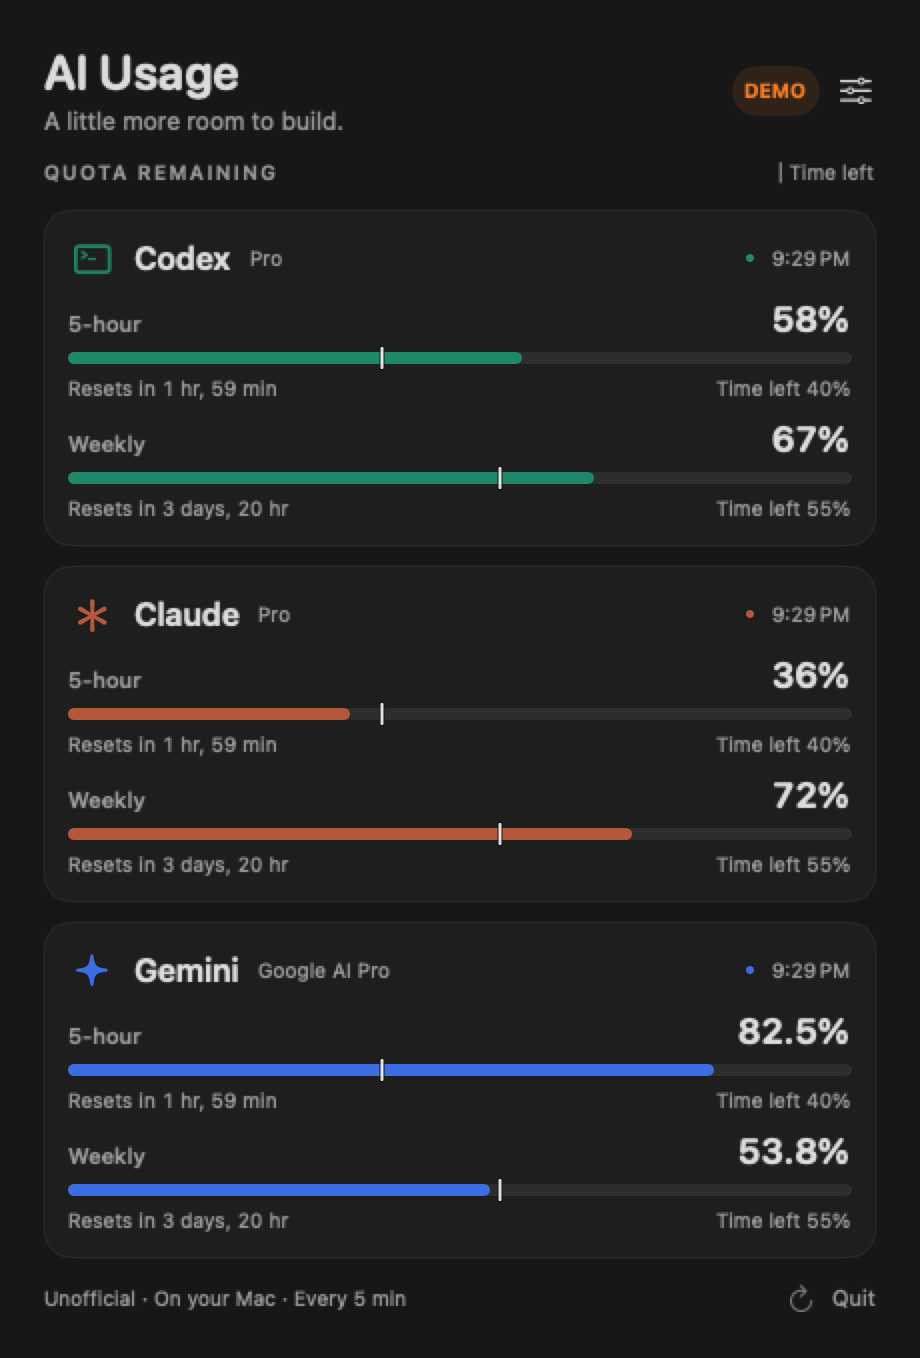
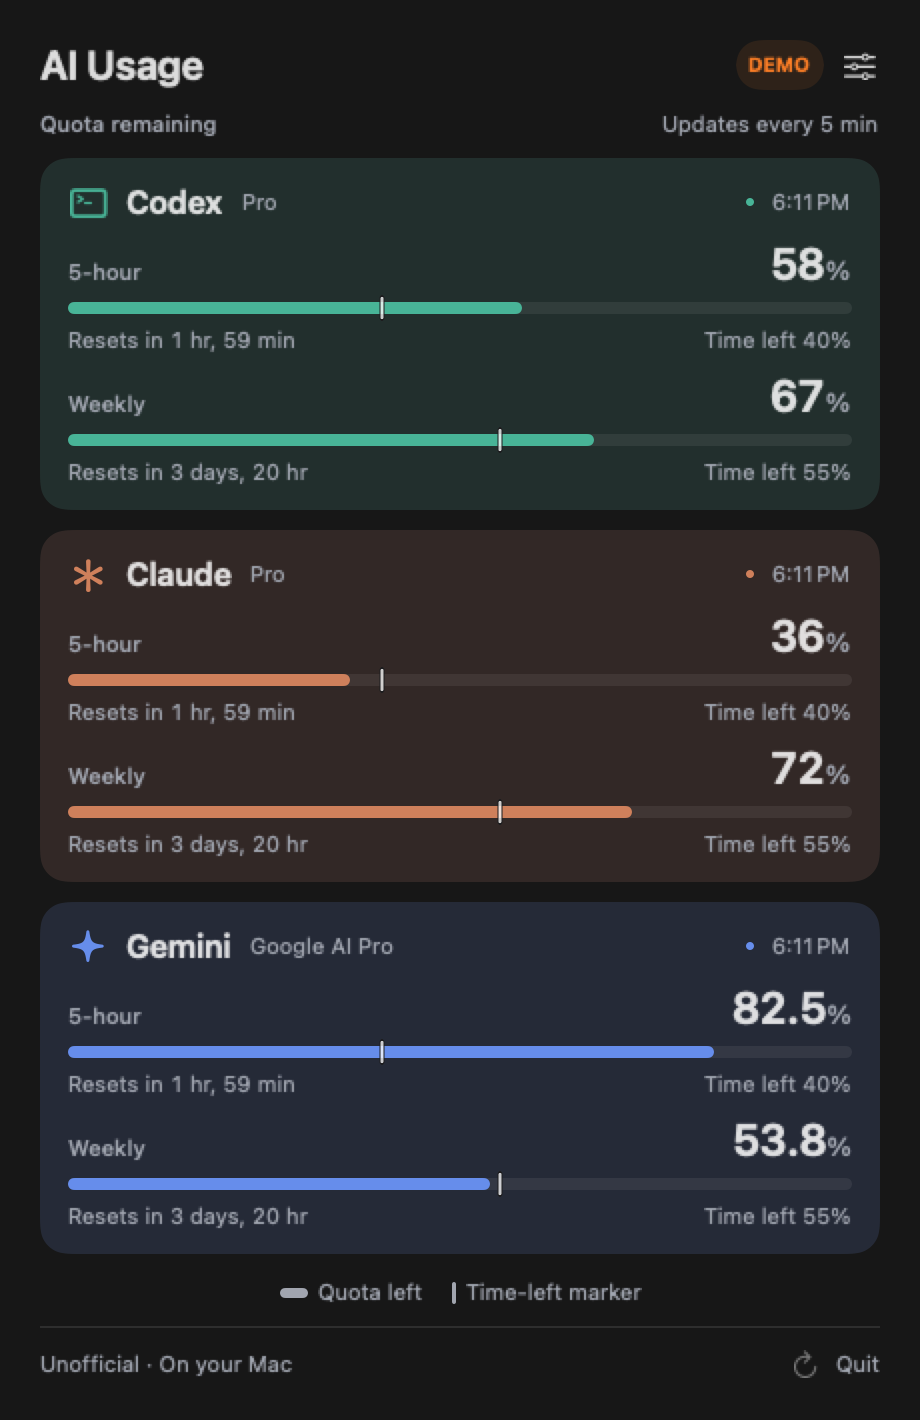
Polish provider cards with soft tints and clearer quota typography

diff --git a/Sources/ChatGPTUsage/App.swift b/Sources/ChatGPTUsage/App.swift
@@ -136,42 +136,67 @@ struct ProviderState {
 
 extension ProviderID {
     var accent: Color {
-        switch self { case .codex: Color(red: 0.13, green: 0.59, blue: 0.49); case .claude: Color(red: 0.76, green: 0.43, blue: 0.29); case .gemini: Color(red: 0.30, green: 0.52, blue: 0.91) }
+        switch self {
+        case .codex: UsagePalette.adaptive(light: 0x187B69, dark: 0x55BFA8)
+        case .claude: UsagePalette.adaptive(light: 0xA65734, dark: 0xD9936E)
+        case .gemini: UsagePalette.adaptive(light: 0x356CC8, dark: 0x78A1EF)
+        }
     }
     var symbol: String { switch self { case .codex: "terminal"; case .claude: "asterisk"; case .gemini: "sparkle" } }
     var usageURL: String { switch self { case .codex: "https://chatgpt.com/codex/settings/usage"; case .claude: "https://claude.ai/settings/usage"; case .gemini: "https://gemini.google.com/usage" } }
+}
+
+private enum UsagePalette {
+    static let cardBase = adaptive(light: 0xFFFFFF, dark: 0x26272A)
+    static let secondary = adaptive(light: 0x60636B, dark: 0xB0B4BD)
+    static func adaptive(light: UInt32, dark: UInt32) -> Color {
+        Color(nsColor: NSColor(name: nil) { appearance in
+            let value = appearance.bestMatch(from: [.darkAqua, .aqua]) == .darkAqua ? dark : light
+            return NSColor(srgbRed: Double((value >> 16) & 255) / 255,
+                           green: Double((value >> 8) & 255) / 255,
+                           blue: Double(value & 255) / 255, alpha: 1)
+        })
+    }
 }
 
 struct UsagePanel: View {
     @ObservedObject var store: UsageStore
     var body: some View {
         TimelineView(.periodic(from: .now, by: 30)) { context in
-            VStack(alignment: .leading, spacing: 12) {
+            VStack(alignment: .leading, spacing: 10) {
                 HStack(alignment: .center) {
-                    VStack(alignment: .leading, spacing: 3) {
-                        Text("AI Usage").font(.system(size: 24, weight: .semibold, design: .rounded))
-                        Text(store.t("A little more room to build.", "만드는 흐름이 끊기지 않도록.")).font(.system(size: 12)).foregroundStyle(.secondary)
-                    }
+                    Text("AI Usage").font(.system(size: 20, weight: .semibold))
                     Spacer()
                     if store.demo { Text("DEMO").font(.system(size: 10, weight: .bold)).foregroundStyle(.orange).padding(6).background(.orange.opacity(0.1), in: Capsule()) }
                     Button { store.showSettings.toggle() } label: { Image(systemName: "slider.horizontal.3").font(.system(size: 16)) }.buttonStyle(.plain).help(store.t("Connections & settings", "연결 및 설정"))
                 }
                 HStack {
-                    Text(store.t("QUOTA REMAINING", "남은 사용 한도")).font(.system(size: 10, weight: .semibold)).tracking(1.3)
+                    Text(store.t("Quota remaining", "남은 사용 한도")).font(.system(size: 11, weight: .medium))
                     Spacer()
-                    Text(store.t("│ Time left", "│ 남은 시간")).font(.system(size: 10))
-                }.foregroundStyle(.secondary)
+                    Text(store.t("Updates every 5 min", "5분마다 업데이트")).font(.system(size: 11))
+                }.foregroundStyle(UsagePalette.secondary)
                 VStack(spacing: 10) {
                     ForEach(ProviderID.allCases) { provider in ProviderCard(store: store, provider: provider, now: context.date) }
                 }
+                HStack(spacing: 14) {
+                    HStack(spacing: 5) {
+                        Capsule().fill(UsagePalette.secondary).frame(width: 14, height: 5).accessibilityHidden(true)
+                        Text(store.t("Quota left", "남은 한도"))
+                    }
+                    HStack(spacing: 5) {
+                        Capsule().fill(UsagePalette.secondary).frame(width: 2, height: 11).accessibilityHidden(true)
+                        Text(store.t("Time-left marker", "남은 시간 기준선"))
+                    }
+                }.font(.system(size: 11)).foregroundStyle(UsagePalette.secondary).frame(maxWidth: .infinity).padding(.top, 2)
                 if store.showSettings { ConnectionSettings(store: store, bridge: store.bridge) }
+                Divider()
                 HStack(spacing: 8) {
-                    Text(store.t("Unofficial · On your Mac · Every 5 min", "비공식 앱 · 내 Mac에서 · 5분마다 조회")).font(.system(size: 10)).foregroundStyle(.secondary)
+                    Text(store.t("Unofficial · On your Mac", "비공식 앱 · 내 Mac에서")).font(.system(size: 11)).foregroundStyle(UsagePalette.secondary)
                     Spacer()
                     Button { store.refresh() } label: { Image(systemName: "arrow.clockwise") }.buttonStyle(.plain).disabled(store.isLoading || store.demo).help(store.t("Refresh local apps; use the extension to refresh browser quotas", "앱 한도 새로고침 · 웹 한도는 확장에서 새로고침"))
-                    Button(store.t("Quit", "종료")) { NSApp.terminate(nil) }.buttonStyle(.plain).font(.system(size: 11)).foregroundStyle(.secondary)
+                    Button(store.t("Quit", "종료")) { NSApp.terminate(nil) }.buttonStyle(.plain).font(.system(size: 11)).foregroundStyle(UsagePalette.secondary)
                 }
-            }.padding(22).frame(width: 460).background(Color(nsColor: .windowBackgroundColor))
+            }.padding(20).frame(width: 460).background(Color(nsColor: .windowBackgroundColor))
         }.environment(\.locale, Locale(identifier: store.language))
     }
 }
@@ -185,34 +210,38 @@ private struct ProviderCard: View {
     var body: some View {
         VStack(alignment: .leading, spacing: 8) {
             HStack(spacing: 9) {
-                Image(systemName: provider.symbol).font(.system(size: 16, weight: .semibold)).foregroundStyle(provider.accent).frame(width: 24, height: 24)
+                Image(systemName: provider.symbol).font(.system(size: 16, weight: .semibold)).foregroundStyle(provider.accent).frame(width: 20, height: 20)
                 Text(provider.title).font(.system(size: 16, weight: .semibold))
-                if let plan = state.snapshot?.plan { Text(plan).font(.system(size: 10)).foregroundStyle(.secondary).lineLimit(1) }
+                if let plan = state.snapshot?.plan { Text(plan).font(.system(size: 11)).foregroundStyle(UsagePalette.secondary).lineLimit(1) }
                 Spacer(minLength: 4)
                 if state.loading { ProgressView().controlSize(.mini) }
                 if let snapshot = state.snapshot {
-                    Circle().fill(state.stale(at: now) ? Color.orange : provider.accent).frame(width: 4, height: 4)
-                    Text(snapshot.updatedAt, style: .time).font(.system(size: 10)).foregroundStyle(.secondary)
-                } else { Text(store.t("Not connected", "연결 전")).font(.system(size: 10)).foregroundStyle(.secondary) }
+                    if state.stale(at: now) { Image(systemName: "exclamationmark.circle").font(.system(size: 10)).foregroundStyle(.orange) }
+                    else { Circle().fill(provider.accent).frame(width: 4, height: 4) }
+                    Text(snapshot.updatedAt, style: .time).font(.system(size: 11)).foregroundStyle(UsagePalette.secondary)
+                } else { Text(store.t("Not connected", "연결 전")).font(.system(size: 10)).foregroundStyle(UsagePalette.secondary) }
             }
             if let snapshot = state.snapshot, !snapshot.windows.isEmpty {
                 ForEach(Array((expanded ? snapshot.windows : Array(snapshot.windows.prefix(2))))) { window in
                     windowRow(window)
                 }
                 if snapshot.windows.count > 2 {
-                    Button(store.t(expanded ? "Show less" : "\(snapshot.windows.count - 2) more limits", expanded ? "접기" : "한도 \(snapshot.windows.count - 2)개 더 보기")) { expanded.toggle() }.buttonStyle(.plain).font(.caption).foregroundStyle(.secondary)
+                    Button(store.t(expanded ? "Show less" : "\(snapshot.windows.count - 2) more limits", expanded ? "접기" : "한도 \(snapshot.windows.count - 2)개 더 보기")) { expanded.toggle() }.buttonStyle(.plain).font(.caption).foregroundStyle(UsagePalette.secondary)
                 }
-                if state.stale(at: now) { Text(store.t("Last known values · refresh needed", "이전 값 · 새로고침 필요")).font(.system(size: 10)).foregroundStyle(.orange) }
+                if state.stale(at: now) { Label(store.t("Last known values · refresh needed", "이전 값 · 새로고침 필요"), systemImage: "exclamationmark.circle").font(.system(size: 11)).foregroundStyle(.orange) }
             } else {
-                Text(store.t(provider == .codex ? "Your ChatGPT plan, through Codex." : "Connect once to see your plan limits here.", provider == .codex ? "Codex를 통해 ChatGPT 요금제 한도를 확인해요." : "한 번 연결하면 요금제 한도를 여기서 확인할 수 있어요.")).font(.system(size: 12)).foregroundStyle(.secondary)
+                Text(store.t(provider == .codex ? "Your ChatGPT plan, through Codex." : "Connect once to see your plan limits here.", provider == .codex ? "Codex를 통해 ChatGPT 요금제 한도를 확인해요." : "한 번 연결하면 요금제 한도를 여기서 확인할 수 있어요.")).font(.system(size: 12)).foregroundStyle(UsagePalette.secondary)
                 HStack {
                     Button(store.t("Connect", "연결하기")) { store.showSettings = true }.controlSize(.small)
                     Button(store.t("Open usage page ↗", "사용량 페이지 ↗")) { openURL(provider.usageURL) }.buttonStyle(.plain).font(.system(size: 11)).foregroundStyle(provider.accent)
                 }
             }
-            if let error = state.error { Text(error).font(.system(size: 10)).foregroundStyle(.orange).fixedSize(horizontal: false, vertical: true) }
-        }.padding(12).background(Color.primary.opacity(0.035), in: RoundedRectangle(cornerRadius: 14))
-            .overlay(RoundedRectangle(cornerRadius: 14).stroke(Color.primary.opacity(0.05), lineWidth: 1))
+            if let error = state.error { Text(error).font(.system(size: 11)).foregroundStyle(.orange).fixedSize(horizontal: false, vertical: true) }
+        }.padding(.horizontal, 14).padding(.vertical, 12)
+            .background {
+                RoundedRectangle(cornerRadius: 14).fill(UsagePalette.cardBase)
+                    .overlay { RoundedRectangle(cornerRadius: 14).fill(provider.accent.opacity(0.12)) }
+            }
     }
     private func name(_ window: ProviderWindow) -> String {
         let duration: String
@@ -235,26 +264,31 @@ private struct ProviderCard: View {
         let pace = state.pace(for: window, at: now)
         VStack(alignment: .leading, spacing: 3) {
             HStack(alignment: .firstTextBaseline) {
-                Text(name(window)).font(.system(size: 11, weight: .medium)).foregroundStyle(.secondary).lineLimit(1)
+                Text(name(window)).font(.system(size: 11, weight: .medium)).foregroundStyle(UsagePalette.secondary).lineLimit(1)
                 Spacer()
-                if let remaining = limit.remaining { Text("\(percentage(remaining))%").font(.system(size: 18, weight: .semibold, design: .rounded)).monospacedDigit().foregroundStyle(old ? Color.secondary : Color.primary) }
-                else { Text("—").foregroundStyle(.secondary) }
+                if let remaining = limit.remaining {
+                    (Text(percentage(remaining)).font(.system(size: 22, weight: .semibold))
+                     + Text("%").font(.system(size: 13, weight: .medium)).foregroundColor(UsagePalette.secondary))
+                        .monospacedDigit().foregroundStyle(old ? UsagePalette.secondary : Color.primary)
+                }
+                else { Text("—").foregroundStyle(UsagePalette.secondary) }
             }
             GeometryReader { geometry in
                 ZStack(alignment: .leading) {
                     Capsule().fill(Color.primary.opacity(0.08)).frame(height: 6)
                     if let remaining = limit.remaining { Capsule().fill(old ? Color.gray : provider.accent).frame(width: geometry.size.width * remaining / 100, height: 6) }
-                    if let pace { Capsule().fill(Color.primary).frame(width: 2, height: 12).overlay(Capsule().stroke(Color(nsColor: .windowBackgroundColor), lineWidth: 0.5)).offset(x: max(0, min(geometry.size.width - 2, geometry.size.width * pace.remainingTimePercent / 100 - 1))) }
+                    if let pace { Capsule().fill(Color.primary.opacity(0.9)).frame(width: 2, height: 12).overlay(Capsule().stroke(UsagePalette.cardBase, lineWidth: 0.5)).offset(x: max(0, min(geometry.size.width - 2, geometry.size.width * pace.remainingTimePercent / 100 - 1))) }
                 }.frame(height: 12)
             }.frame(height: 12).accessibilityLabel(store.t("Remaining quota and time marker", "남은 한도와 시간 기준선"))
             HStack(spacing: 3) {
                 if let reset = limit.resetDate {
                     if expired { Text(store.t("Reset passed · refresh", "초기화 시각 지남 · 새로고침")) }
-                    else { Text(store.t("Resets in", "초기화까지")); Text(reset, style: .relative) }
+                    else if store.language == "ko" { Text(reset, style: .relative); Text("후 초기화") }
+                    else { Text("Resets in"); Text(reset, style: .relative) }
                 } else { Text(store.t("Reset not reported", "초기화 시각 미제공")) }
                 Spacer(minLength: 4)
                 if let pace { Text(store.t("Time left \(Int(pace.remainingTimePercent.rounded()))%", "시간 \(Int(pace.remainingTimePercent.rounded()))% 남음")) }
-            }.font(.system(size: 10)).foregroundStyle(.secondary).monospacedDigit()
+            }.font(.system(size: 11)).foregroundStyle(UsagePalette.secondary).monospacedDigit()
         }.help(store.t("The vertical line marks time remaining. When the colored bar extends beyond it, quota is being used more slowly than an even pace. This is a reference, not a daily limit.", "세로선은 남은 시간 비율이에요. 색 막대가 선보다 길면 균등 페이스보다 여유 있게 쓰고 있어요. 실제 일일 한도가 아닌 참고 기준입니다."))
     }
 }

diff --git a/docs/VERIFICATION-0.3.md b/docs/VERIFICATION-0.3.md
@@ -47,6 +47,14 @@ No personal account payloads, credentials, or real-account screenshots are inclu
 - All three providers repopulated in the running native detail window after restart; quota values and reset countdowns were visible. Existing extension pairing was retained.
 - The user confirmed that all three mini bars appear in the actual menu bar and clicking opens the detail panel correctly. This complements the native detail-window and automated layout checks above; the UI tool cannot directly select the status-item icon.
 
+## Tinted card polish — 2026-10-18
+
+- The selected design uses a 12% provider-color overlay on an opaque neutral card, with separate light/dark palettes. Only presentation changed: quota collection, precision, reset timestamps, pacing math, and the three-bar menu indicator are unchanged.
+- The existing **145-check suite** passes. No new tests were added for these reversible visual changes. [Output](verification/tinted-cards-tests.txt).
+- Korean/English dark/light sample renders were reviewed at 920×1420 pixels (460×710pt for six sample windows). Percentages, resets, plans and legend fit without clipping. The time marker retains a thin contrast edge; secondary text uses explicit theme-aware colors.
+- Version 0.3.0, build 7 was bundled, signature-verified and installed after backing up the previous app. The installed executable matches the built bundle. The running native detail window shows all three real providers with the new card backgrounds, remaining quotas and reset countdowns.
+- Public preview images contain DEMO data. No live account screenshots are committed.
+
 ## Remaining release gates
 
 - Test clean installation on another Mac/account.

diff --git a/docs/design/multi-provider.md b/docs/design/multi-provider.md
@@ -28,3 +28,9 @@ The selected menu-bar design uses a fixed 24 × 18pt image with three 5 × 14pt 
 Each provider keeps the existing headline selection: prefer its weekly window, otherwise its first reported window. The tooltip and accessibility summary name that window. Values from different providers are never combined. Stale, failed, expired or missing readings use neutral broken marks; genuine 0% remains a solid empty track. Refreshing an otherwise fresh reading does not cause flicker. No new animation or rotating labels.
 
 Windows phase: keep normalization/parsing separate from macOS UI and authentication so a later Windows host can reuse the data contract. Windows is not part of this release.
+
+## Selected card polish
+
+The user selected the soft provider-tinted cards at 12% tint. Blend that fill over an opaque neutral card (#FFFFFF light / #26272A dark), leaving text fully opaque. Provider light/dark accents: Codex #187B69 / #55BFA8, Claude #A65734 / #D9936E, Gemini #356CC8 / #78A1EF. Keep native system canvas and semantic text colors.
+
+Retain the 460pt measured panel and stacked quota windows. Use SF 20pt for the app title, 16pt for providers, 22pt for percentage numerals, 13pt for the percent sign, and 11pt for reset/status details. Remove the introductory tagline; keep per-provider update times. Explain quota fill and time-left marker together below the cards, once. Warning text and symbols distinguish stale data even on Claude's copper tint. Keep the menu icon, acquisition, percentages, timing calculations, and settings behavior unchanged.

diff --git a/README.ko.md b/README.ko.md
@@ -20,6 +20,8 @@
 
 메뉴 막대는 **Codex → Claude → Gemini** 순서의 작은 막대 세 개로 표시한다. 채워진 높이는 남은 한도이며, 클릭하면 정확한 수치와 초기화 시간을 확인할 수 있다. 마우스를 올리면 각 막대가 나타내는 기간을 알려 준다(주간 한도가 있으면 우선 표시). 갱신·연결이 필요한 상태는 중간이 끊긴 표시로, 실제 0%는 빈 실선 트랙으로 구분한다.
 
+상세 카드는 서비스 색을 12% 섞은 배경으로 구분하며, 밝은 화면과 어두운 화면에 각각 맞춘 색을 사용한다.
+
 상세 패널의 색 막대는 남은 한도, 세로선은 남은 시간이다. 막대가 선보다 길면 균등하게 사용하는 기준보다 여유가 있다. 실제 일일 한도가 아닌 참고 기준이다. 연결 실패·오래된 데이터·초기화 시각이 지난 데이터는 표시를 구분한다.
 
 ## 설치 및 연결

diff --git a/README.md b/README.md
@@ -26,7 +26,7 @@ Ordinary ChatGPT chat caps, API spending, token counts, and Antigravity quotas a
 
 - A fixed-width menu icon with three mini bars, ordered Codex → Claude → Gemini. Height shows remaining quota; click for exact values and reset times. Hover names the represented window (weekly when available).
 - Broken neutral marks mean a refresh or connection is needed; a solid empty track means a measured 0%.
-- Three compact service cards; extra model windows expand on demand.
+- Three softly tinted service cards, with theme-aware 12% provider color; extra model windows expand on demand.
 - **Remaining** quota, actual reset countdown, and last update time for each service.
 - Colored bar = quota remaining. Vertical line = time remaining in that window.
 - If the bar extends beyond the line, you are spending more slowly than an even pace. This is a reference, **not an official daily allowance**.

diff --git a/CHANGELOG.md b/CHANGELOG.md
@@ -2,6 +2,8 @@
 
 ## 0.3.0 beta — compact menu update
 
+- Add provider-colored card backgrounds at 12% tint, with light/dark palettes.
+- Refine the title, percentage typography and reset labels; add a shared legend for quota fill and the time-left marker.
 - Replace the three text percentages with a fixed-size, three-bar menu icon in Codex / Claude / Gemini order.
 - Keep exact remaining quota, reset countdowns, and pace markers in the existing click-to-open panel.
 - Distinguish missing, stale, failed and expired readings from a real 0%; add window-aware English/Korean tooltip and accessibility text.
